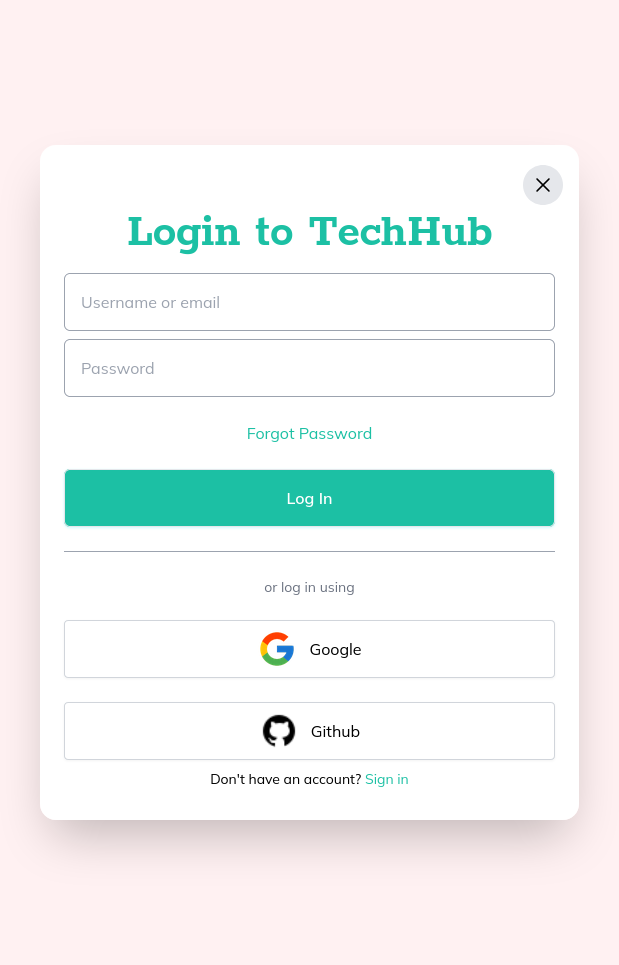
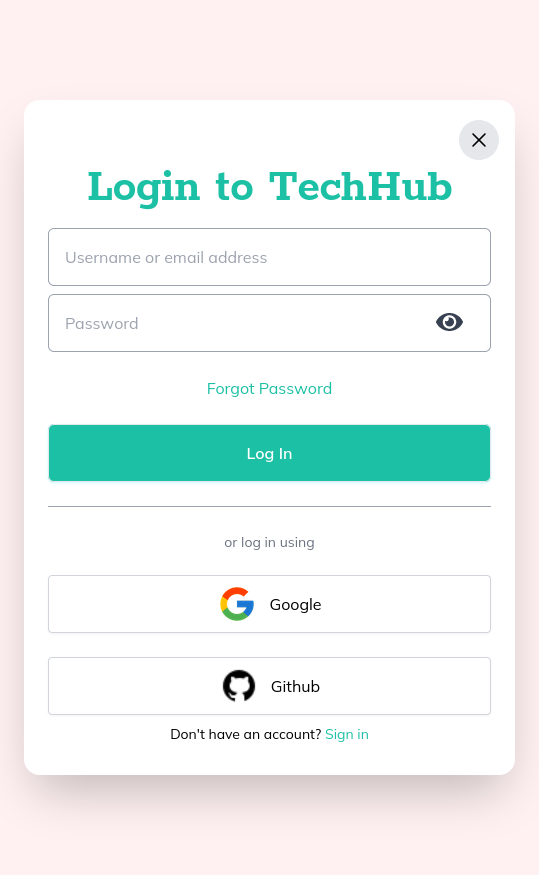
Add files via upload

Changed region(s): [[0.0297, 0.1234, 0.9796, 0.9257], [0.3859, 0.432, 0.6234, 0.4629]]

diff --git a/login-modal/index.html b/login-modal/index.html
@@ -18,6 +18,7 @@
             }
         }
     </script>
+    <script src="https://cdn.jsdelivr.net/gh/alpinejs/alpine@v2.x.x/dist/alpine.js" defer></script>
     <title>Login-Modal</title>
 </head>
 <body>
@@ -29,12 +30,30 @@
                 </h1>
                 <img src="assets/banner.jpg" class="w-[430px] hidden md:block" />
             </div>
-            <div class="p-6 md:p-20">
+            <div class="p-6 md:p-20" x-data="{ show: true }">
                 <h1 class="font-mono text-5xl text-center mb-4 font-bold text-[#1CC0A4] md:hidden">
                     Login to TechHub
                 </h1>
-                <input type="text" class="w-full p-4 border border-gray-400 rounded-md mb-2 placehold:font-sans placeholder:font-light" placeholder="Username or email">
-                <input type="text" class="w-full p-4 border border-gray-400 rounded-md placehold:font-sans placeholder:font-light" placeholder="Password">
+                <input type="text" class="w-full p-4 border border-gray-400 rounded-md mb-2 placehold:font-sans placeholder:font-light" placeholder="Username or email address">
+                <input type="text" class="w-full p-4 border border-gray-400 rounded-md placehold:font-sans placeholder:font-light" placeholder="Password" :type="show ? 'password' : 'text'">
+                <button class="absolute top-[210px] right-10 md:top-[164px] md:right-20 pr-3 flex items-center text-sm leading-5">
+
+                    <svg class="h-6 text-gray-700" fill="none" @click="show = !show"
+                      :class="{'hidden': !show, 'block':show }" xmlns="http://www.w3.org/2000/svg"
+                      viewbox="0 0 576 512">
+                      <path fill="currentColor"
+                        d="M572.52 241.4C518.29 135.59 410.93 64 288 64S57.68 135.64 3.48 241.41a32.35 32.35 0 0 0 0 29.19C57.71 376.41 165.07 448 288 448s230.32-71.64 284.52-177.41a32.35 32.35 0 0 0 0-29.19zM288 400a144 144 0 1 1 144-144 143.93 143.93 0 0 1-144 144zm0-240a95.31 95.31 0 0 0-25.31 3.79 47.85 47.85 0 0 1-66.9 66.9A95.78 95.78 0 1 0 288 160z">
+                      </path>
+                    </svg>
+
+                    <svg class="h-6 text-gray-700" fill="none" @click="show = !show"
+                      :class="{'block': !show, 'hidden':show }" xmlns="http://www.w3.org/2000/svg"
+                      viewbox="0 0 640 512">
+                      <path fill="currentColor"
+                        d="M320 400c-75.85 0-137.25-58.71-142.9-133.11L72.2 185.82c-13.79 17.3-26.48 35.59-36.72 55.59a32.35 32.35 0 0 0 0 29.19C89.71 376.41 197.07 448 320 448c26.91 0 52.87-4 77.89-10.46L346 397.39a144.13 144.13 0 0 1-26 2.61zm313.82 58.1l-110.55-85.44a331.25 331.25 0 0 0 81.25-102.07 32.35 32.35 0 0 0 0-29.19C550.29 135.59 442.93 64 320 64a308.15 308.15 0 0 0-147.32 37.7L45.46 3.37A16 16 0 0 0 23 6.18L3.37 31.45A16 16 0 0 0 6.18 53.9l588.36 454.73a16 16 0 0 0 22.46-2.81l19.64-25.27a16 16 0 0 0-2.82-22.45zm-183.72-142l-39.3-30.38A94.75 94.75 0 0 0 416 256a94.76 94.76 0 0 0-121.31-92.21A47.65 47.65 0 0 1 304 192a46.64 46.64 0 0 1-1.54 10l-73.61-56.89A142.31 142.31 0 0 1 320 112a143.92 143.92 0 0 1 144 144c0 21.63-5.29 41.79-13.9 60.11z">
+                      </path>
+                    </svg>
+                </button>
                 <div class="flex flex-col items-center justify-between mt-6 space-y-6 md:flex-row md:space-y-0">
                     <div class="font-thin text-[#1CC0A4]">
                         <a href="#" class="hover:underline decoration">Forgot Password</a>

diff --git a/login-modal/README.md b/login-modal/README.md
@@ -1,9 +1,13 @@
 # Login-Modal
 A mini-project created as a part of the Udemy Course: TailwindCSS from Scratch.
+
 It is a design for a login modal that is used in service provider websites, social media sites, forums, or anything that involves either data aggregation for a particular user or any service that customizes user experiences for each user. Modifications are inspired by the login modal for payfully.com.
+
+The password functionality is powered using alpinejs.
 
 ## Made Using
 <img src="https://img.shields.io/badge/Tailwind_CSS-38B2AC?style=for-the-badge&logo=tailwind-css&logoColor=white"/>
+<img src="https://img.shields.io/badge/Alpine%20JS-8BC0D0?style=for-the-badge&logo=alpinedotjs&logoColor=black"/>
 
 ## Screenshot
 ### Web-view
